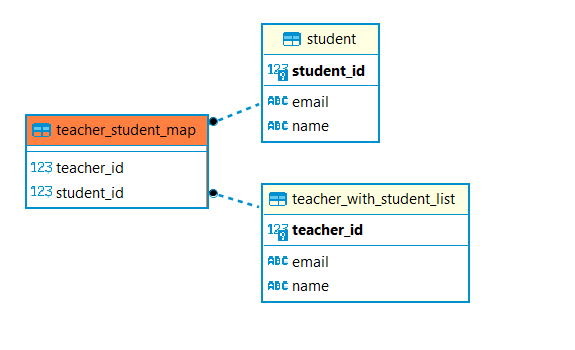
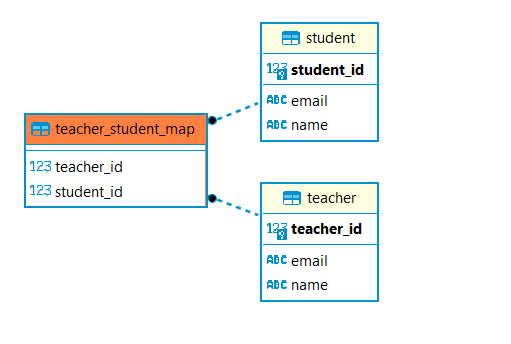
updated db diagram

Changed region(s): [[0.0294, 0.0581, 0.8219, 0.9012]]

diff --git a/README.md b/README.md
@@ -34,4 +34,4 @@ password: password
 
 8. For any issues, email me at norulshahlam@gmail.com or whatsapp me at +6592212152
 
-### HAPPY CODING!
+### HAPPY TESTING!
